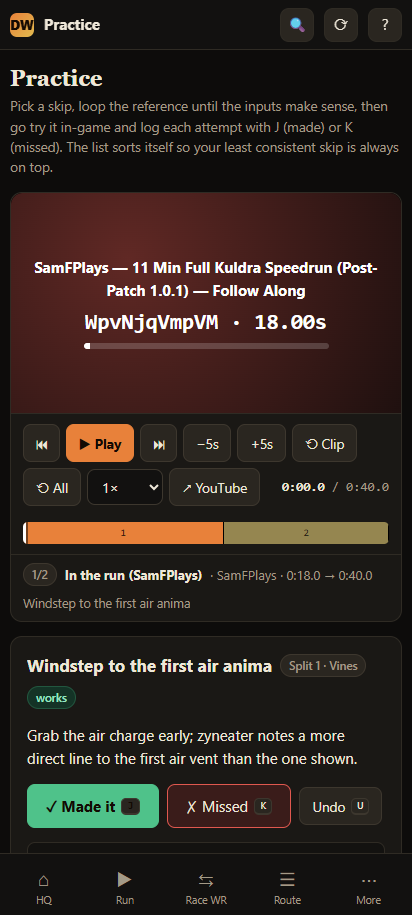
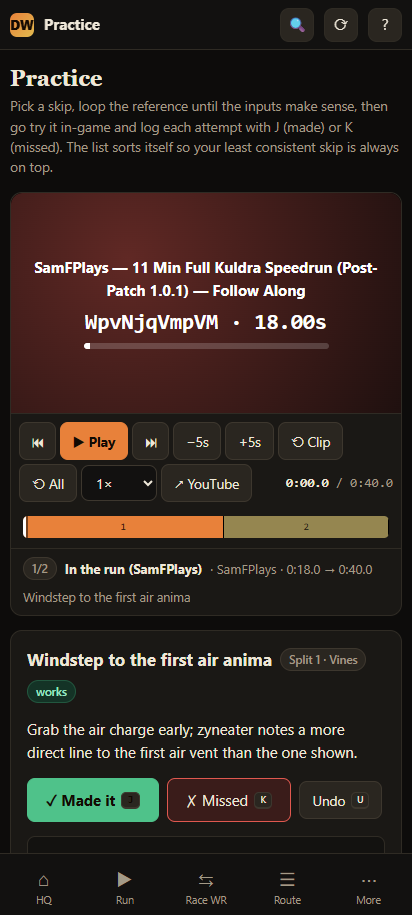
Phone: race runs side by side

diff --git a/css/app.css b/css/app.css
@@ -428,3 +428,12 @@ dialog.palette input { width: 100%; font-size: 16px; padding: 12px; }
 #toast { top: 62px; bottom: auto !important; transform: translate(-50%, -20px); }
 #toast.show { transform: translate(-50%, 0); }
 .rn-body { align-items: start; }
+/* phone: keep runs side by side so both are visible at once */
+@media (max-width: 719px) {
+  .cmp-grid.n2, .cmp-grid.n3, .cmp-grid.n4 { grid-template-columns: 1fr 1fr; gap: 4px; padding: 4px; }
+  .cmp-cell .hud { padding: 3px 5px; font-size: 10px; flex-wrap: wrap; }
+  .cmp-cell .hud .clock { font-size: 13px; } .cmp-cell .hud .dl { font-size: 11px; }
+  .cmp-cell .flag { font-size: 10px; right: 4px; top: 4px; }
+  .transport { gap: 4px; padding: 8px; }
+  .bigclock { font-size: 22px; }
+}
